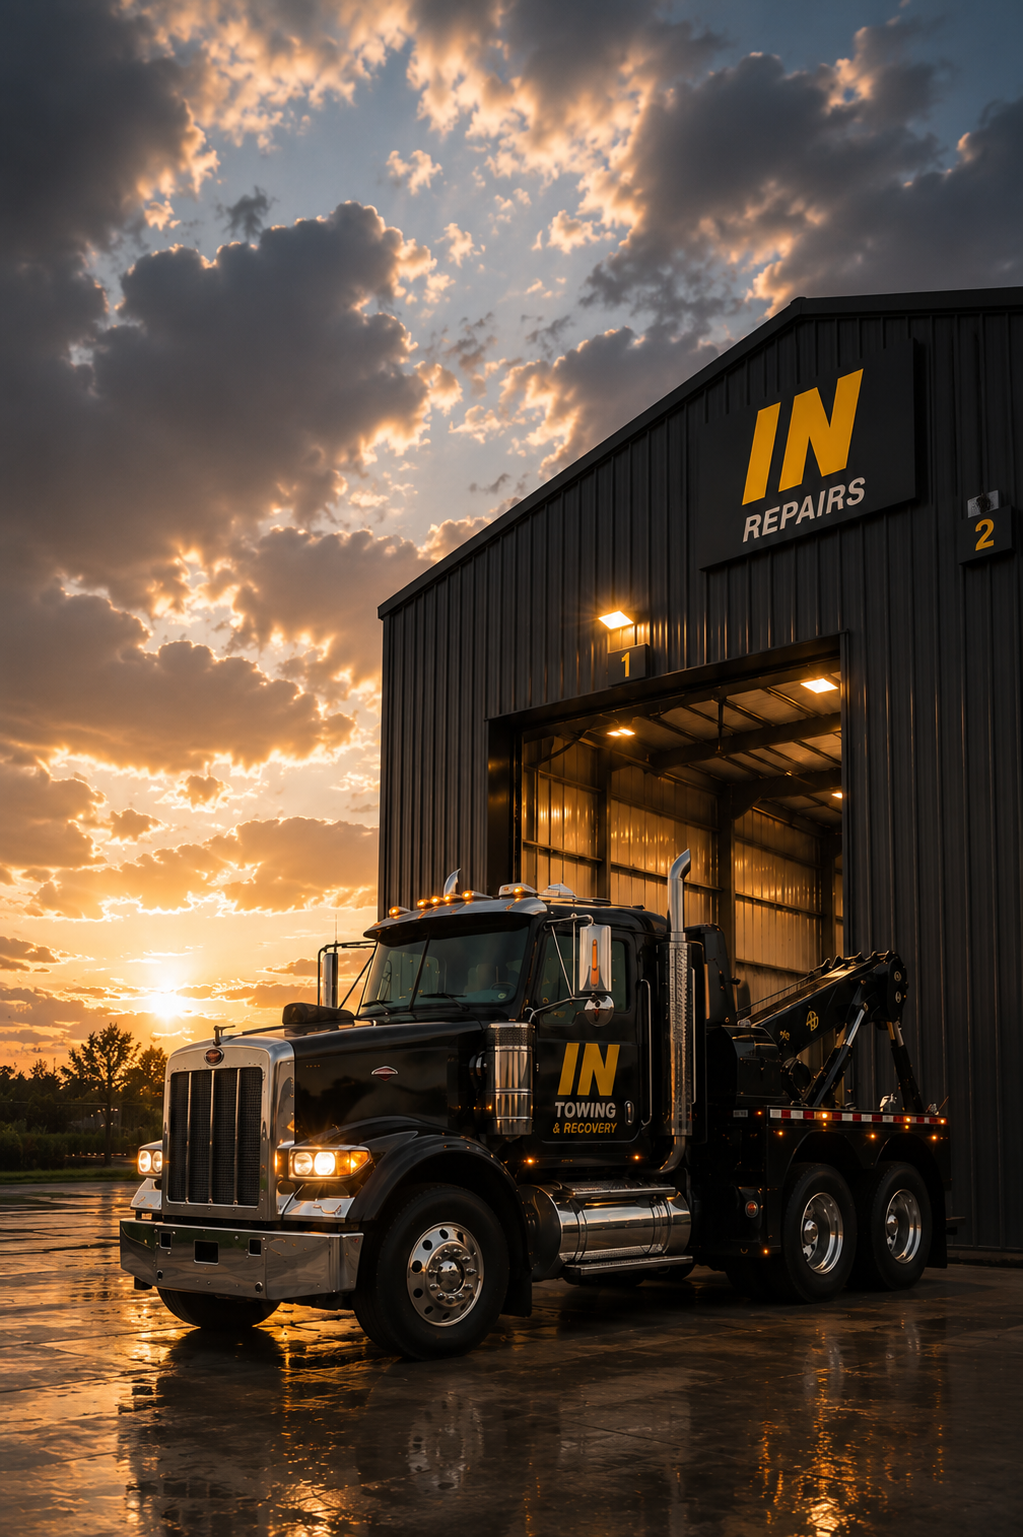
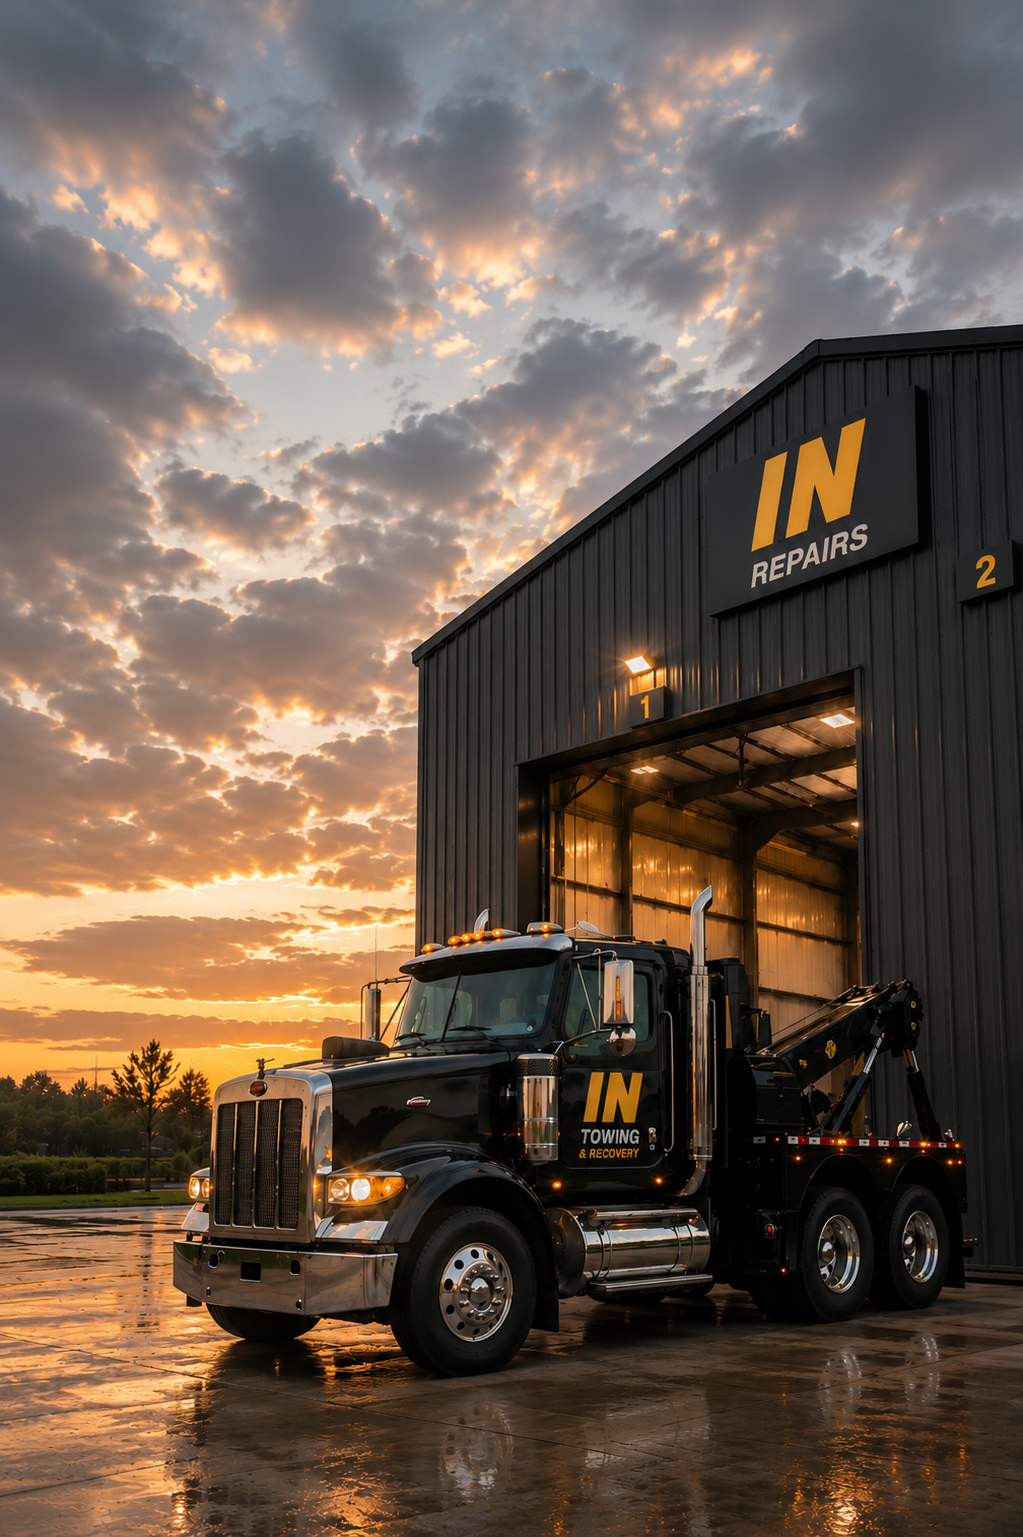
add new hero mobile image

diff --git a/src/components/heroSection/HeroContent.tsx b/src/components/heroSection/HeroContent.tsx
@@ -26,8 +26,8 @@ const HeroContent = ({ isDesktop = false }: HeroContentProps) => {
 
   const badgeSize = isDesktop ? "lg" : "sm";
   const badgeTextClassName = isDesktop
-    ? "text-xs font-bold tracking-[0.25em] uppercase text-foreground/60"
-    : "text-[10px] font-bold tracking-[0.2em] uppercase text-foreground/60";
+    ? "text-xs font-bold tracking-[0.25em] uppercase text-white"
+    : "text-[10px] font-bold tracking-[0.2em] uppercase text-white";
 
   const contentWrapperClassName = isDesktop
     ? "relative z-10 px-12 pt-10 max-w-3xl"